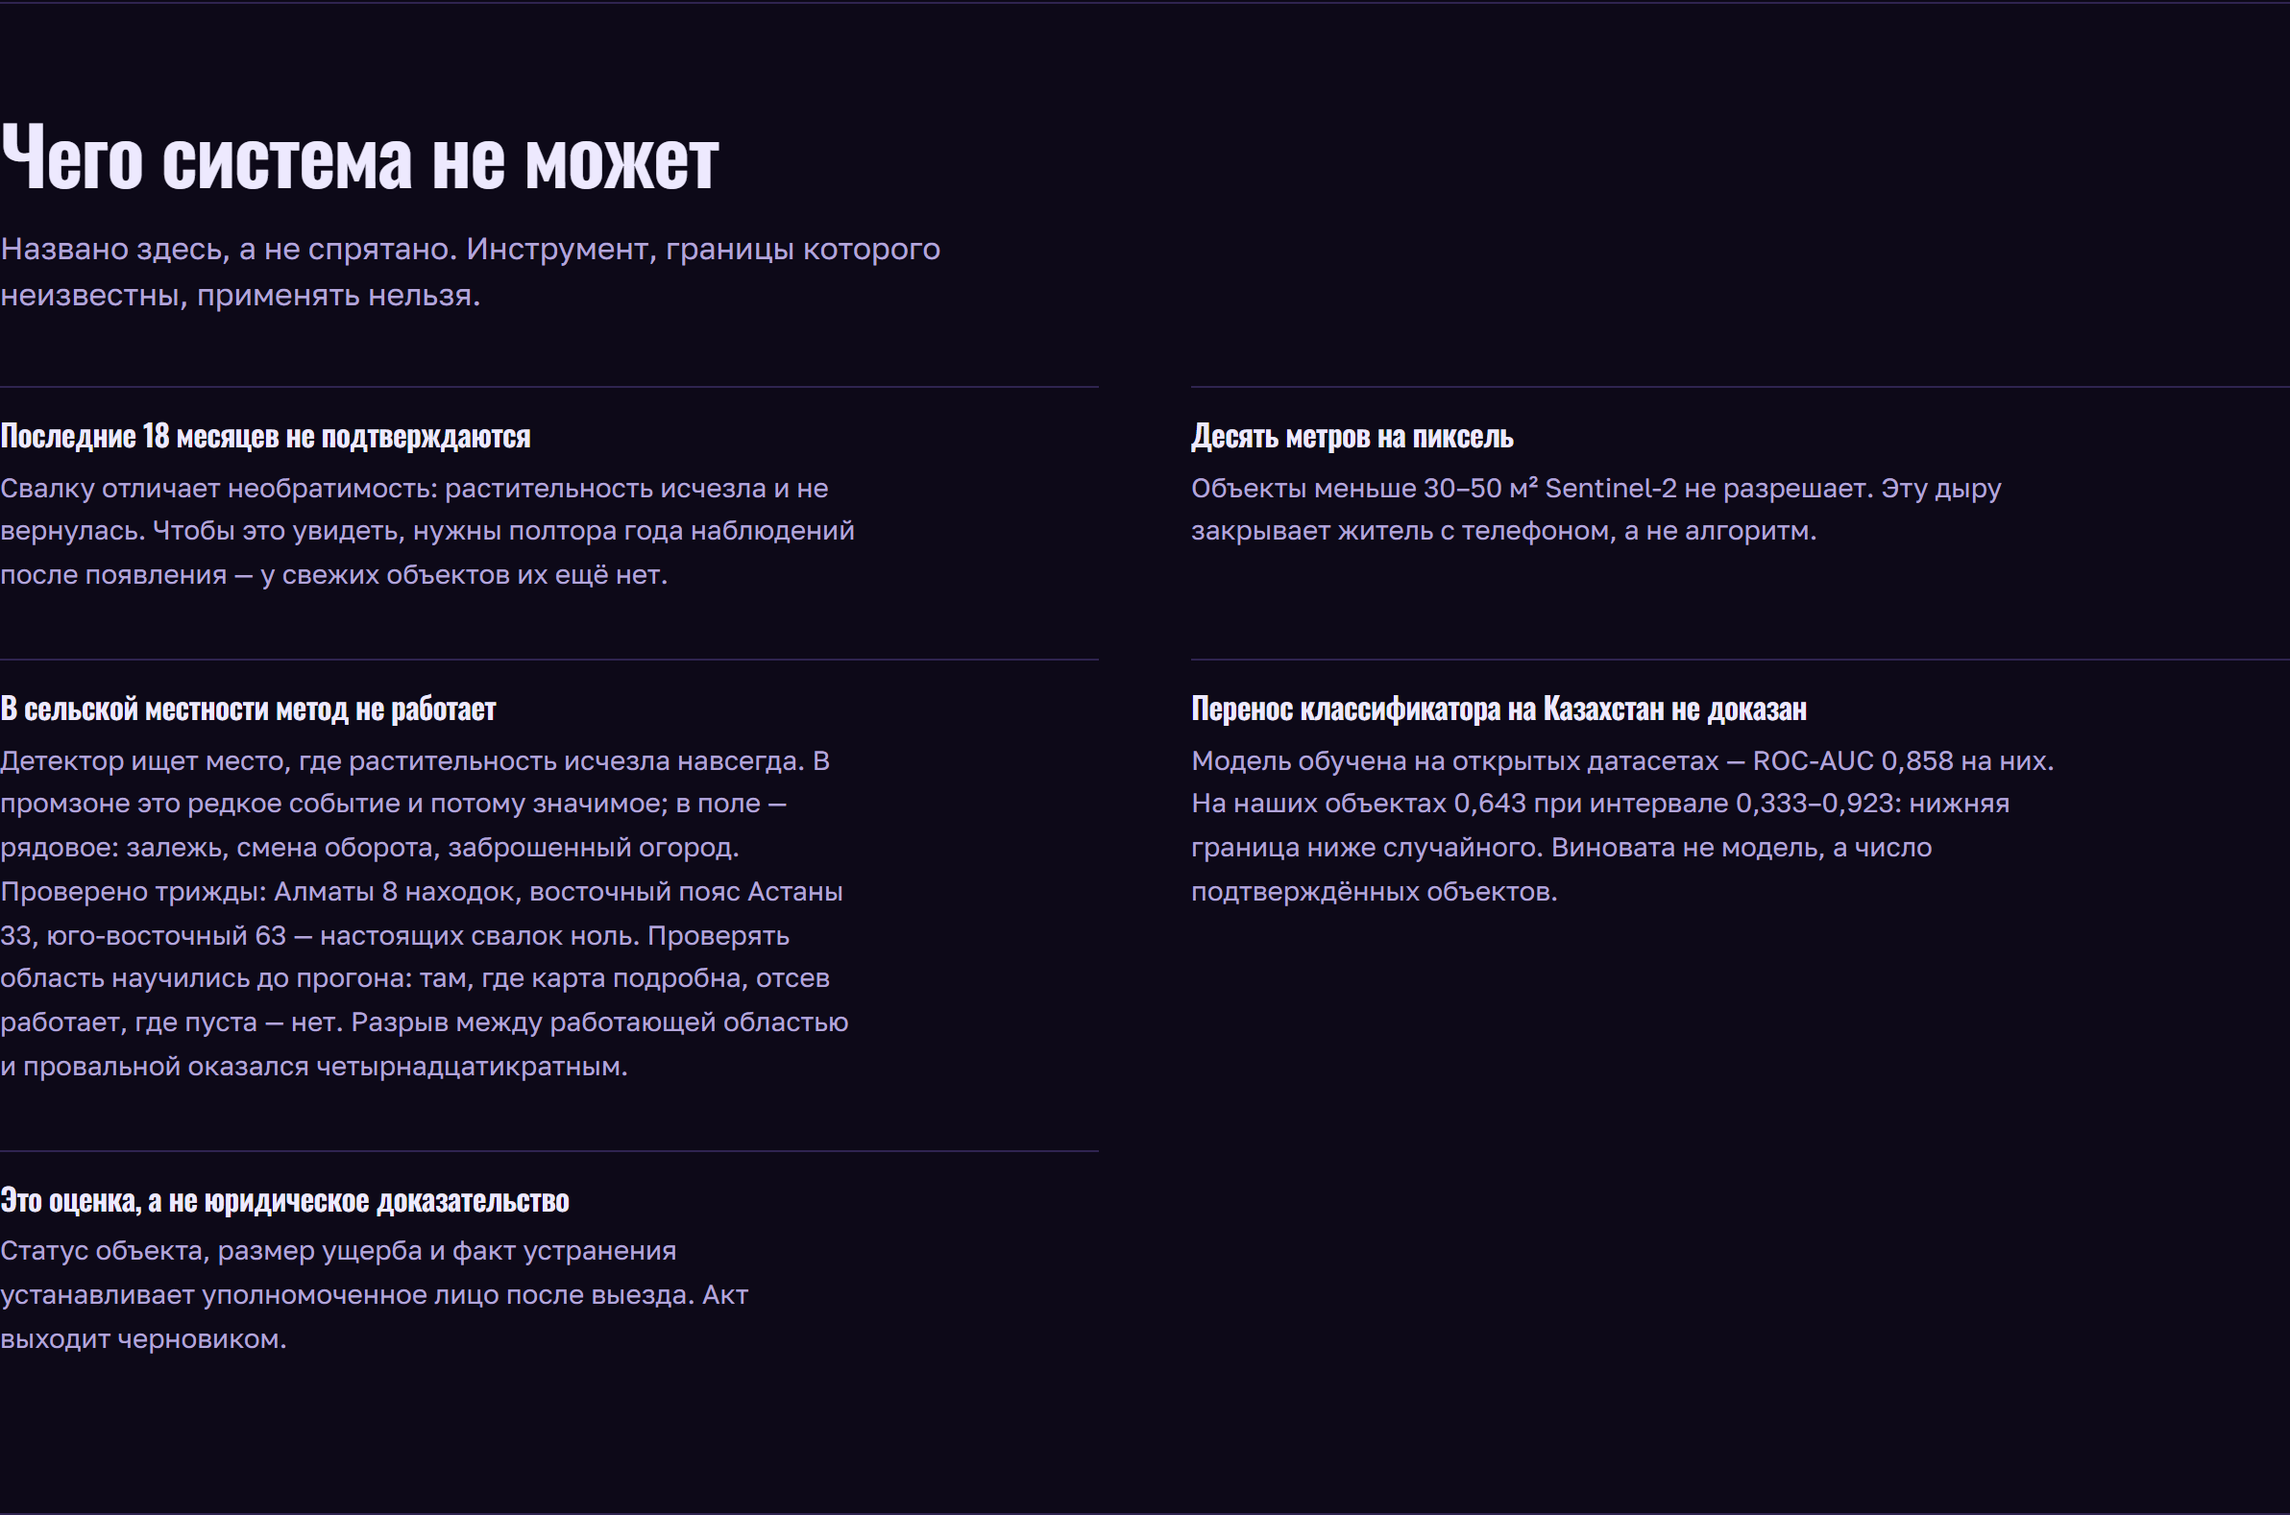
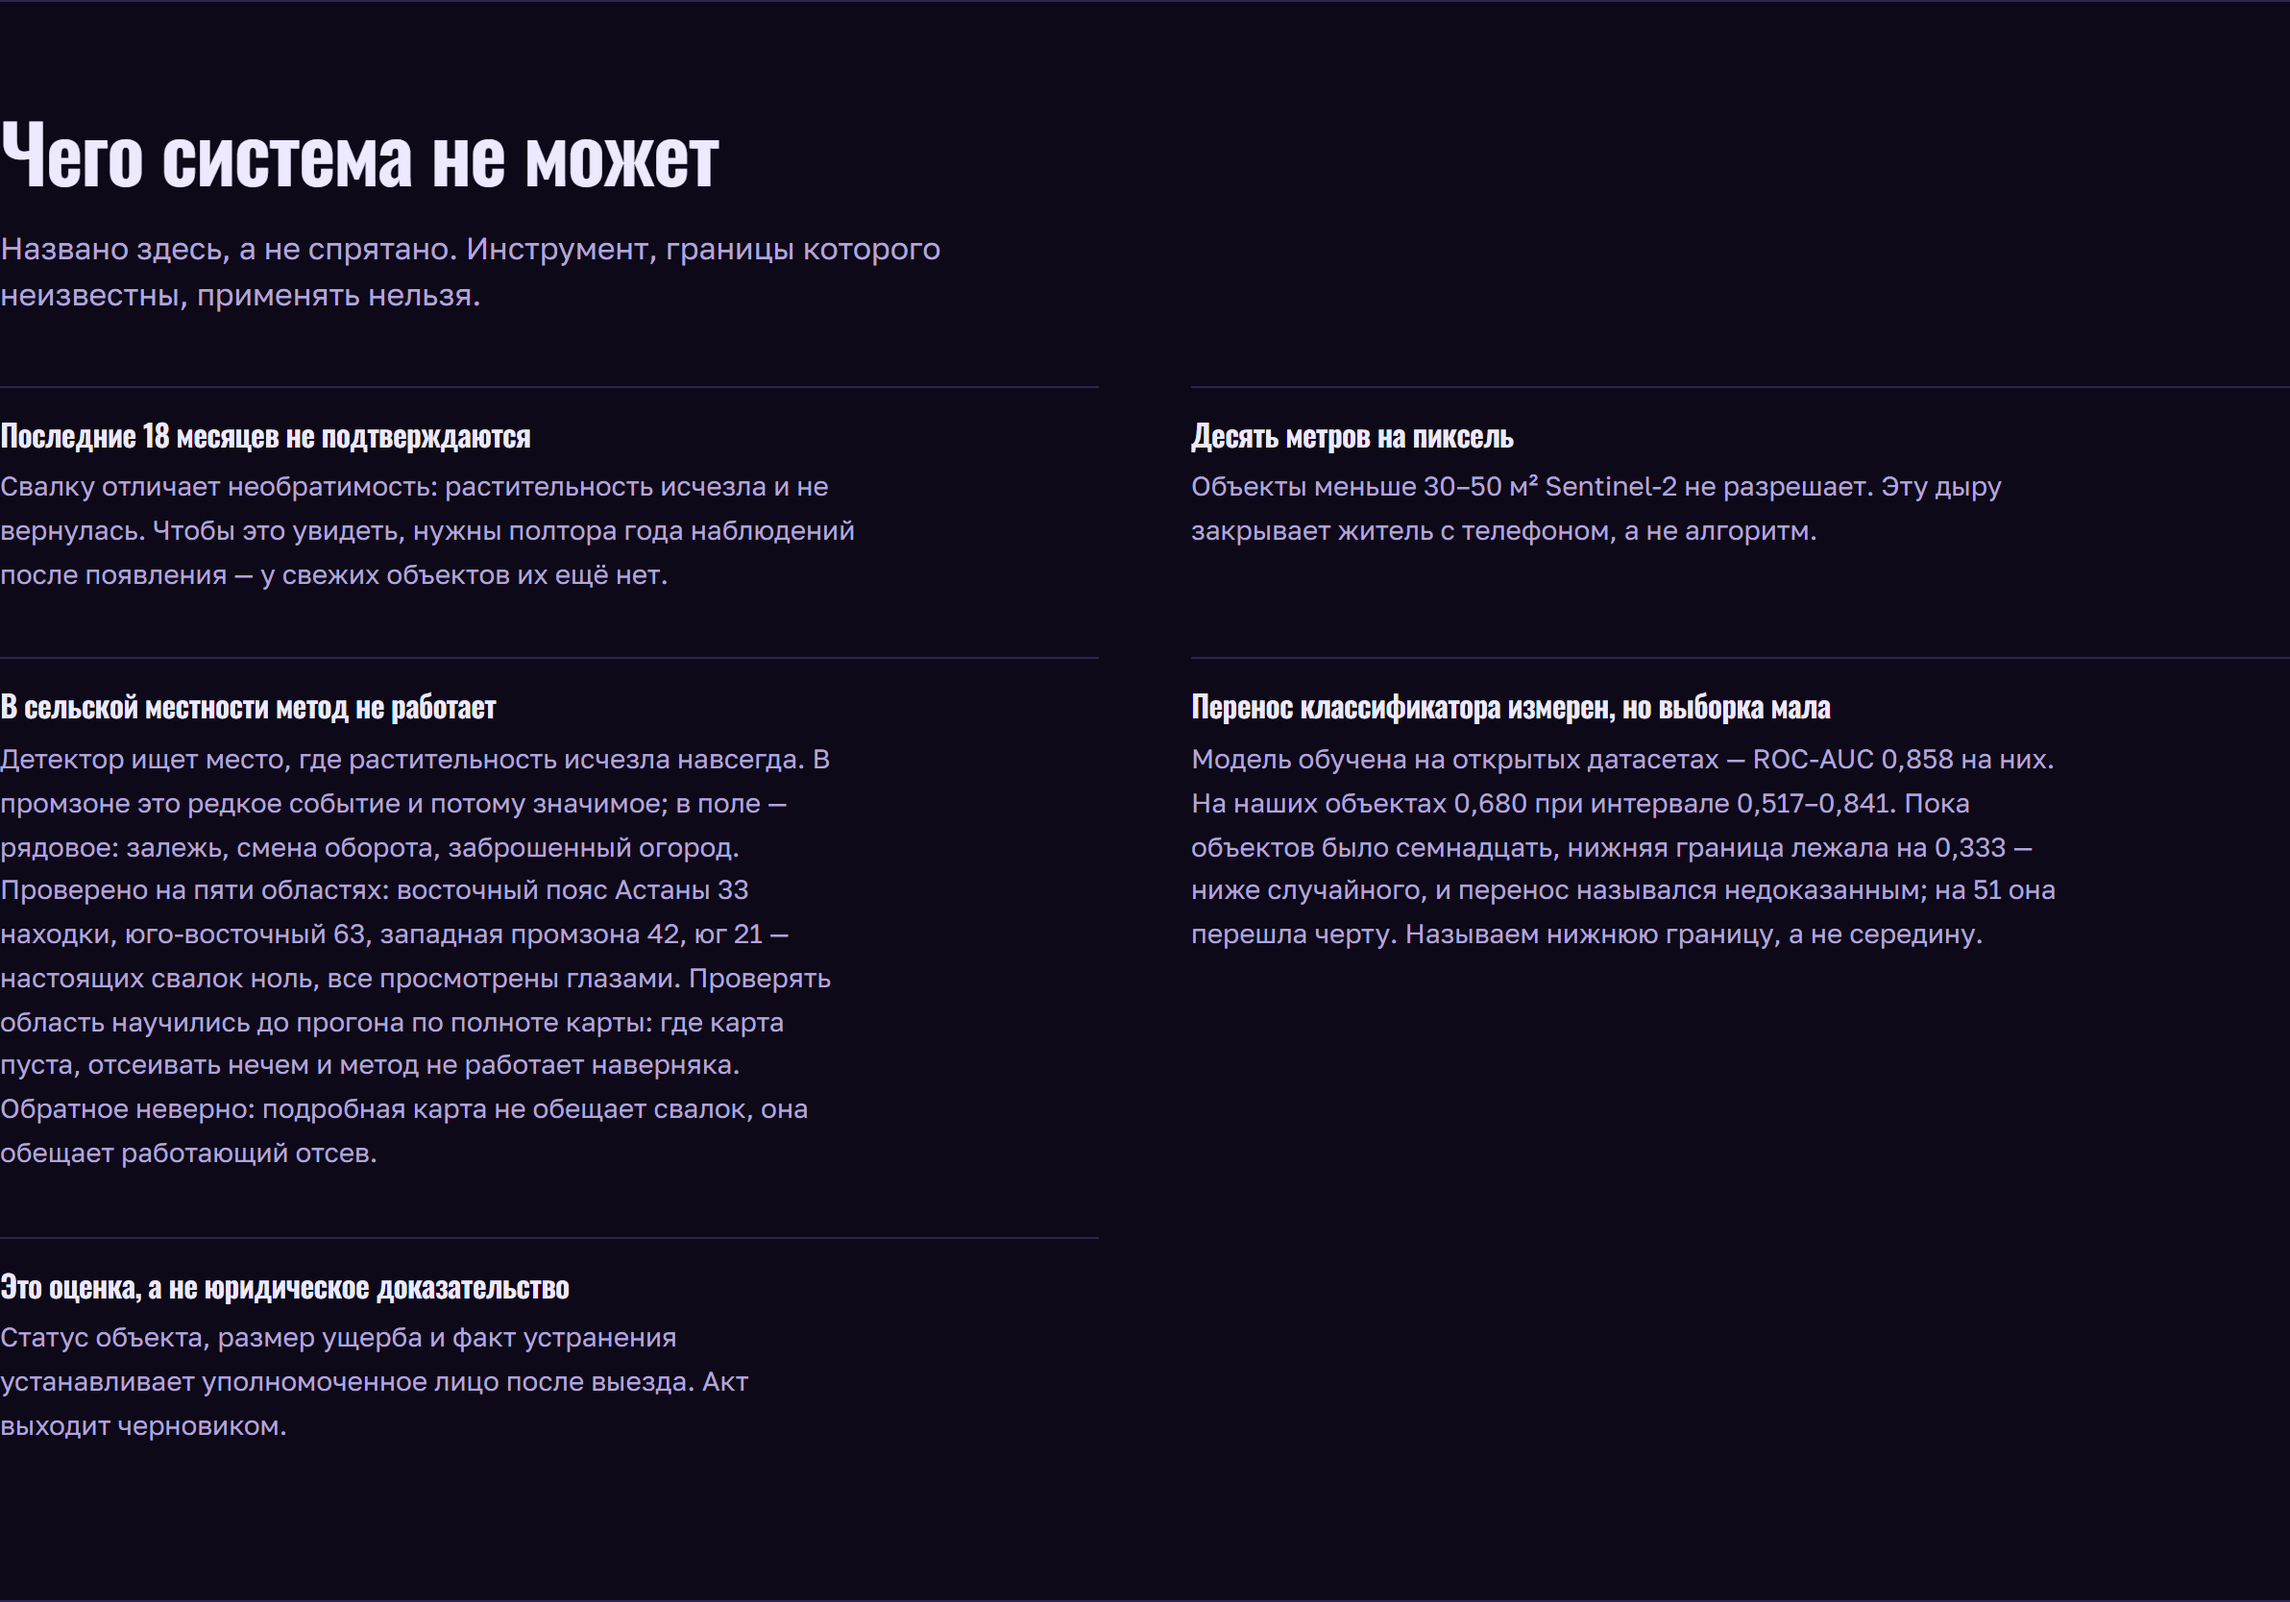
Ограничения на лендинге отстали от измерений
Раздел «чего система не может» говорил «перенос классификатора не доказан,
0,643 при интервале 0,333–0,923» — числа семнадцати объектов. На 51
объекте стало 0,680 при 0,517–0,841, и нижняя граница перешла черту
случайного. Формулировка исправлена, и сказано, как числа двигались.

Ограничение про сельскую местность уточнено по результату промзоны:
подробная карта не обещает свалок, она обещает работающий отсев. Западная
промзона прошла замер лучше всех (97,8 контура на км²) и дала ноль
настоящих свалок из 42. Обратное утверждение остаётся верным: где карта
пуста, метод не работает наверняка.

Раздел про масштаб обещал проверку «за минуту», а плитка рядом — двенадцать
минут. Одна область меряется за секунды, вся сетка — за двенадцать. Заодно
добавлено то, чего там не хватало: четыре области из пяти дали ноль, и это
написано на лендинге, а не спрятано.

diff --git a/web-next/src/App.tsx b/web-next/src/App.tsx
@@ -113,11 +113,11 @@ const LIMITS: [string, string][] = [
   ],
   [
     'В сельской местности метод не работает',
-    'Детектор ищет место, где растительность исчезла навсегда. В промзоне это редкое событие и потому значимое; в поле — рядовое: залежь, смена оборота, заброшенный огород. Проверено трижды: Алматы 8 находок, восточный пояс Астаны 33, юго-восточный 63 — настоящих свалок ноль. Проверять область научились до прогона: там, где карта подробна, отсев работает, где пуста — нет. Разрыв между работающей областью и провальной оказался четырнадцатикратным.',
+    'Детектор ищет место, где растительность исчезла навсегда. В промзоне это редкое событие и потому значимое; в поле — рядовое: залежь, смена оборота, заброшенный огород. Проверено на пяти областях: восточный пояс Астаны 33 находки, юго-восточный 63, западная промзона 42, юг 21 — настоящих свалок ноль, все просмотрены глазами. Проверять область научились до прогона по полноте карты: где карта пуста, отсеивать нечем и метод не работает наверняка. Обратное неверно: подробная карта не обещает свалок, она обещает работающий отсев.',
   ],
   [
-    'Перенос классификатора на Казахстан не доказан',
-    'Модель обучена на открытых датасетах — ROC-AUC 0,858 на них. На наших объектах 0,643 при интервале 0,333–0,923: нижняя граница ниже случайного. Виновата не модель, а число подтверждённых объектов.',
+    'Перенос классификатора измерен, но выборка мала',
+    'Модель обучена на открытых датасетах — ROC-AUC 0,858 на них. На наших объектах 0,680 при интервале 0,517–0,841. Пока объектов было семнадцать, нижняя граница лежала на 0,333 — ниже случайного, и перенос назывался недоказанным; на 51 она перешла черту. Называем нижнюю границу, а не середину.',
   ],
   [
     'Это оценка, а не юридическое доказательство',
@@ -551,9 +551,11 @@ export default function App() {
           <p className="mt-8 max-w-[60ch] text-sm leading-relaxed text-muted-2">
             Последнее число важнее первых двух. Метод работает не везде: там,
             где сельское хозяйство оставляет тот же след, что и свалка,
-            находки будут ложными. Мы умеем сказать это <strong className="font-normal text-line">до</strong> прогона,
-            за минуту и без единого снимка — и говорим, даже когда ответ
-            отрицательный.
+            находки будут ложными. Мы умеем сказать это <strong className="font-normal text-line">до</strong> прогона
+            и без единого снимка: одна область — секунды, вся агломерация по
+            сетке — двенадцать минут. И говорим, даже когда ответ
+            отрицательный: четыре области из пяти дали ноль настоящих свалок,
+            и это написано здесь, а не спрятано.
           </p>
         </section>
 
